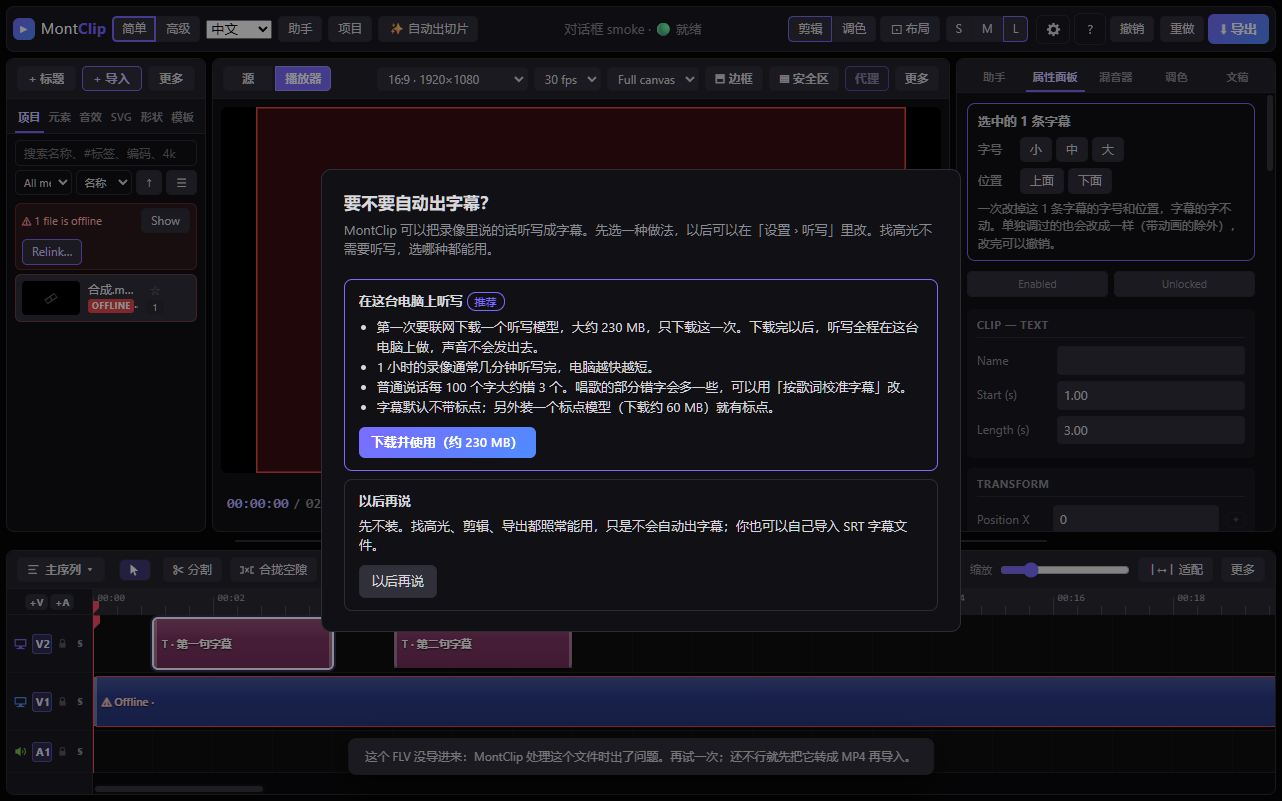
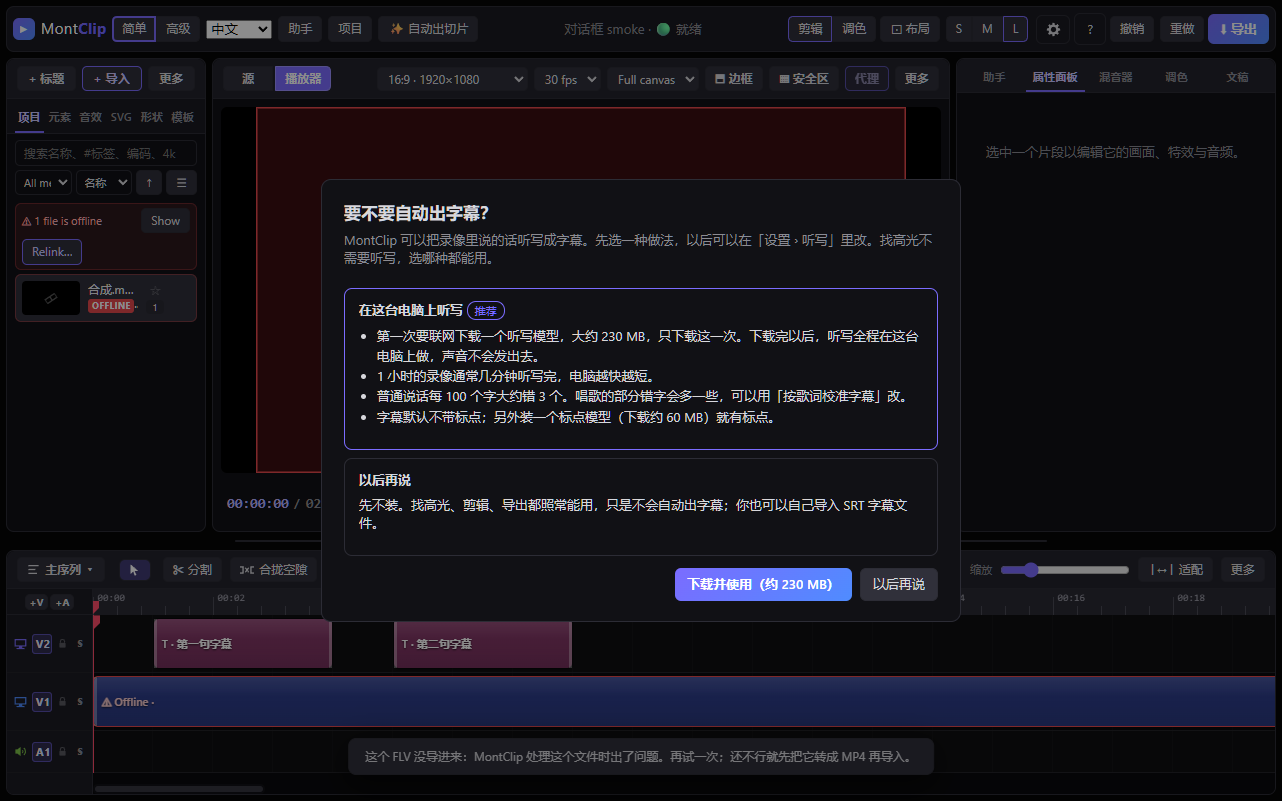
fix(dialogs): VV on #88 25b4578 — 要不要自动出字幕？ keeps 〔下载并使用〕 and 〔以后再说〕 in its own button row at the bottom, the cards above scroll; Esc is the box's way out (〔以后再说〕, the choice kept; 〔好〕 once done; while downloading it closes and the download goes on); the focus is put in the box when it opens. Captur
Assisted-by: Cindy (https://cindy.app)

diff --git a/app.js b/app.js
@@ -9601,12 +9601,21 @@ function openAsrSetup(state) {
     d.setAttribute("aria-labelledby", "asrSetupTitle");
     d.addEventListener("close", () => { if (asrSetup && asrSetup.dialog === d) asrSetup = null; d.remove(); });
     d.addEventListener("click", asrSetupClick);
+    // Esc (VV on #88 25b4578): what the box's own way out does — 〔以后再说〕 when it offers one, 〔好〕 once done; while
+    // downloading the box closes and the download goes on (Settings › 听写 shows it)
+    d.addEventListener("cancel", (e) => {
+      e.preventDefault();
+      const out = d.querySelector('[data-asr-setup="later"]') || d.querySelector('[data-asr-setup="ok"]');
+      if (out) out.click(); else d.close();
+    });
     document.body.append(d);
     asrSetup = { dialog: d, state: null };
     d.showModal();
   }
   asrSetup.state = state || null;
   paintAsrSetup();
+  // the focus in the box, on its first button, so Esc and Tab are the box's
+  if (!asrSetup.dialog.contains(document.activeElement)) asrSetup.dialog.querySelector(".dialog-actions button")?.focus();
 }
 /** A box taller than the window (Deja, #88): everything between its title and its actions goes into a .dialog-body that
  *  scrolls, so the title and the actions stay in sight. */
@@ -9625,9 +9634,9 @@ function paintAsrSetup() {
   if (!st) html = `<h2 id="asrSetupTitle">${h("setup-title")}</h2><p class="dim">${h("setup-intro")}</p>
     <div class="asr-card asr-card-main"><b>${h("setup-local-title")}</b> <span class="asr-tag">${h("setup-recommended")}</span>
       <ul><li>${h("asr-missing")}</li><li>${h("setup-local-speed")}${ASR_TEST_MINUTES ? h("setup-local-n", { n: ASR_TEST_MINUTES }) : ""}</li>
-        <li>${h("setup-local-errors")}</li>${asrPunctReady() ? "" : `<li>${h("setup-local-punct")}</li>`}</ul>
-      <button type="button" class="btn primary" data-asr-setup="download">${h("asr-download")}</button></div>
-    <div class="asr-card"><b>${h("setup-later-title")}</b><p>${h("setup-later")}</p>${later}</div>`;
+        <li>${h("setup-local-errors")}</li>${asrPunctReady() ? "" : `<li>${h("setup-local-punct")}</li>`}</ul></div>
+    <div class="asr-card"><b>${h("setup-later-title")}</b><p>${h("setup-later")}</p></div>
+    <div class="dialog-actions"><button type="button" class="btn primary" data-asr-setup="download">${h("asr-download")}</button>${later}</div>`;
   else if (st === "dl") html = `<h2 id="asrSetupTitle">${h("setup-dl-title")}</h2><p>${h("asr-downloading", { got: mbText(d.loaded) })}</p>
     <div class="asr-bar"><i style="width:${d.total ? Math.min(100, Math.round(100 * d.loaded / d.total)) : 0}%"></i></div>
     <div class="dialog-actions"><button type="button" class="btn" data-asr-setup="cancel">${h("asr-download-cancel")}</button></div>`;

diff --git a/docs/demo/app.js b/docs/demo/app.js
@@ -9601,12 +9601,21 @@ function openAsrSetup(state) {
     d.setAttribute("aria-labelledby", "asrSetupTitle");
     d.addEventListener("close", () => { if (asrSetup && asrSetup.dialog === d) asrSetup = null; d.remove(); });
     d.addEventListener("click", asrSetupClick);
+    // Esc (VV on #88 25b4578): what the box's own way out does — 〔以后再说〕 when it offers one, 〔好〕 once done; while
+    // downloading the box closes and the download goes on (Settings › 听写 shows it)
+    d.addEventListener("cancel", (e) => {
+      e.preventDefault();
+      const out = d.querySelector('[data-asr-setup="later"]') || d.querySelector('[data-asr-setup="ok"]');
+      if (out) out.click(); else d.close();
+    });
     document.body.append(d);
     asrSetup = { dialog: d, state: null };
     d.showModal();
   }
   asrSetup.state = state || null;
   paintAsrSetup();
+  // the focus in the box, on its first button, so Esc and Tab are the box's
+  if (!asrSetup.dialog.contains(document.activeElement)) asrSetup.dialog.querySelector(".dialog-actions button")?.focus();
 }
 /** A box taller than the window (Deja, #88): everything between its title and its actions goes into a .dialog-body that
  *  scrolls, so the title and the actions stay in sight. */
@@ -9625,9 +9634,9 @@ function paintAsrSetup() {
   if (!st) html = `<h2 id="asrSetupTitle">${h("setup-title")}</h2><p class="dim">${h("setup-intro")}</p>
     <div class="asr-card asr-card-main"><b>${h("setup-local-title")}</b> <span class="asr-tag">${h("setup-recommended")}</span>
       <ul><li>${h("asr-missing")}</li><li>${h("setup-local-speed")}${ASR_TEST_MINUTES ? h("setup-local-n", { n: ASR_TEST_MINUTES }) : ""}</li>
-        <li>${h("setup-local-errors")}</li>${asrPunctReady() ? "" : `<li>${h("setup-local-punct")}</li>`}</ul>
-      <button type="button" class="btn primary" data-asr-setup="download">${h("asr-download")}</button></div>
-    <div class="asr-card"><b>${h("setup-later-title")}</b><p>${h("setup-later")}</p>${later}</div>`;
+        <li>${h("setup-local-errors")}</li>${asrPunctReady() ? "" : `<li>${h("setup-local-punct")}</li>`}</ul></div>
+    <div class="asr-card"><b>${h("setup-later-title")}</b><p>${h("setup-later")}</p></div>
+    <div class="dialog-actions"><button type="button" class="btn primary" data-asr-setup="download">${h("asr-download")}</button>${later}</div>`;
   else if (st === "dl") html = `<h2 id="asrSetupTitle">${h("setup-dl-title")}</h2><p>${h("asr-downloading", { got: mbText(d.loaded) })}</p>
     <div class="asr-bar"><i style="width:${d.total ? Math.min(100, Math.round(100 * d.loaded / d.total)) : 0}%"></i></div>
     <div class="dialog-actions"><button type="button" class="btn" data-asr-setup="cancel">${h("asr-download-cancel")}</button></div>`;
